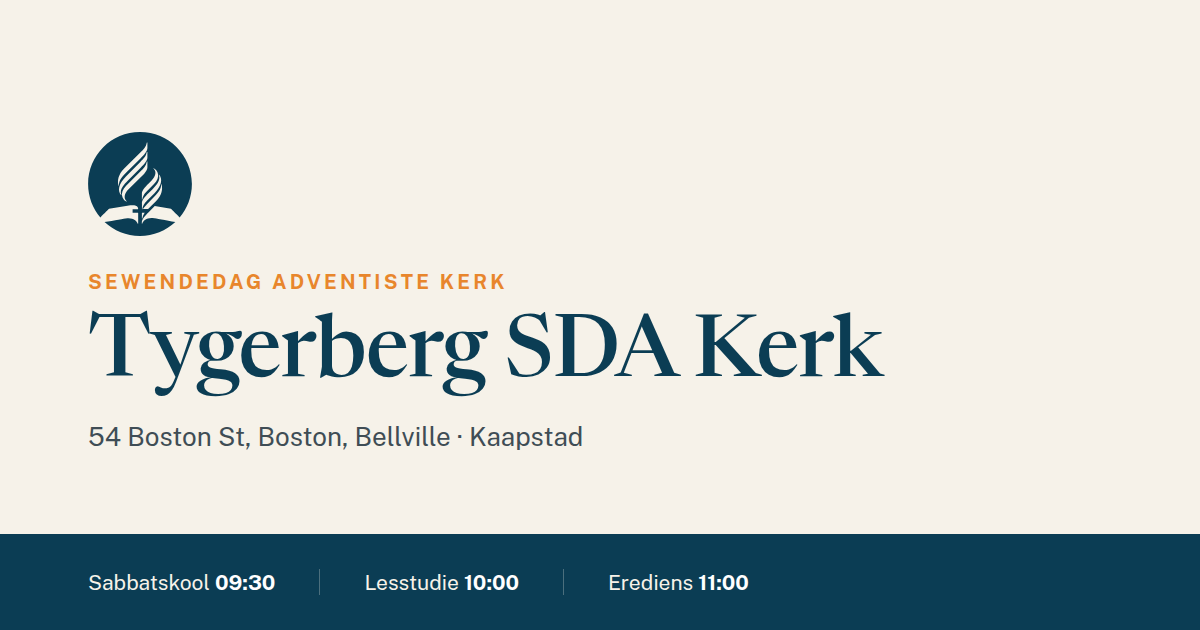
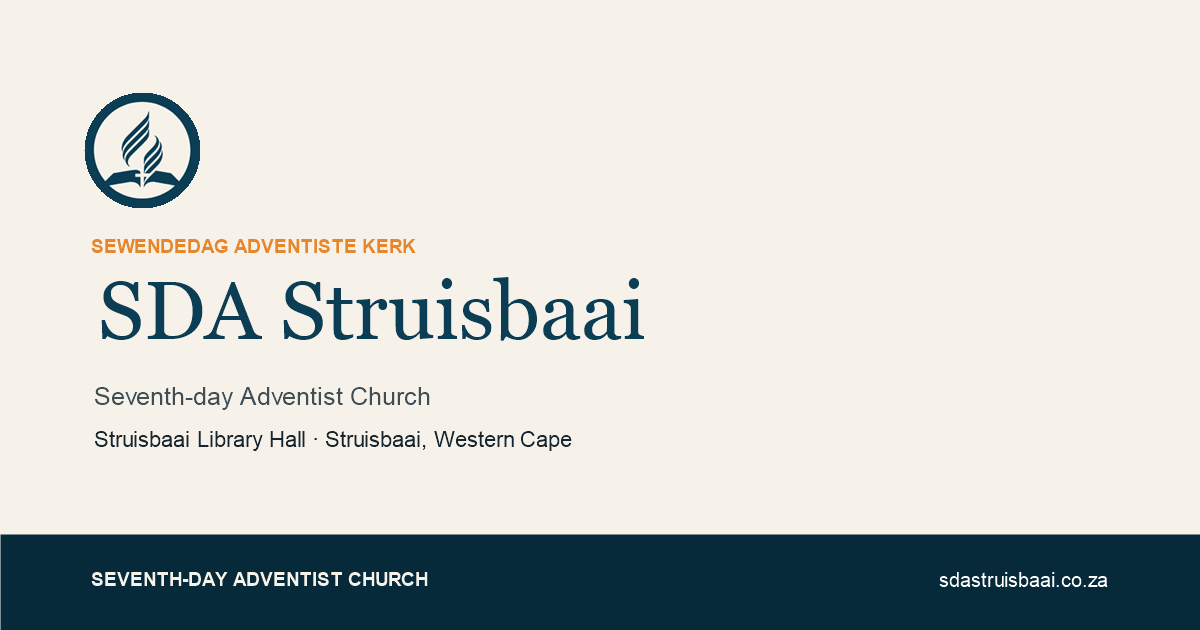
Apply Struisbaai branding and align involvement cards (#5)

Changed region(s): [[0.0, 0.8444, 1.0, 1.0], [0.0617, 0.1508, 0.74, 0.7238]]

diff --git a/src/components/react/GetInvolved.tsx b/src/components/react/GetInvolved.tsx
@@ -7,7 +7,7 @@ export function GetInvolved() {
   const t = homeCopy[lang];
 
   const cardClass = (tint: boolean) =>
-    `rounded-card-lg border p-6.5 flex flex-col justify-between ${
+    `flex h-full flex-col justify-between rounded-card-lg border p-6.5 ${
       tint ? 'border-orange/40 bg-orange/15' : 'border-white/15 bg-white/10'
     }`;
 
@@ -17,7 +17,7 @@ export function GetInvolved() {
         <h2 className="mb-10 text-center font-serif text-[34px] font-medium">
           {t.involvedHeading}
         </h2>
-        <div className="grid grid-cols-[repeat(auto-fit,minmax(min(240px,100%),1fr))] items-start gap-5">
+        <div className="grid auto-rows-fr grid-cols-[repeat(auto-fit,minmax(min(240px,100%),1fr))] items-stretch gap-5">
           <div className={cardClass(false)}>
             <div>
               <div className="mb-2.5 font-serif text-xl">{t.connectTitle}</div>
@@ -62,16 +62,6 @@ export function GetInvolved() {
               <div className="mb-2.5 font-serif text-xl">{t.giveTitle}</div>
               <p className="mb-4 text-sm leading-relaxed text-blue-pale">{t.giveDesc}</p>
             </div>
-            {/* Was an in-card accordion holding the banking details. Giving now
-                has its own page, because a second method (Zapper) plus a QR
-                code does not fit in a third of a card — and a giving link is
-                the kind of thing people want to send to someone else. */}
-            <a
-              href={withBase('/giving/')}
-              className="w-full inline-flex items-center justify-center gap-1.5 rounded-pill bg-orange px-4 py-2 text-[13px] font-bold text-white hover:bg-orange-hover transition-colors"
-            >
-              {t.giveCta} →
-            </a>
           </div>
         </div>
       </div>

diff --git a/src/data/site.ts b/src/data/site.ts
@@ -67,9 +67,6 @@ export type SocialLink = { id: 'youtube' | 'instagram' | 'facebook'; label: stri
 
 export const SOCIAL_LINKS: readonly SocialLink[] = [
   ...(FEATURE_FLAGS.youtubeSection ? [{ id: 'youtube' as const, label: 'YouTube', url: SITE.youtubeStreamsUrl }] : []),
-  { id: 'instagram', label: 'Instagram', url: 'https://www.instagram.com/sdatygerberg' },
-  // These inherited links are pending confirmation for Struisbaai.
-  { id: 'facebook', label: 'Facebook', url: 'https://www.facebook.com/SDATygerbergStream' },
 ];
 
 /**

diff --git a/src/components/react/SocialLinks.tsx b/src/components/react/SocialLinks.tsx
@@ -18,6 +18,8 @@ export function SocialLinks({
   newTab: string;
   variant: 'navy' | 'light';
 }) {
+  if (SOCIAL_LINKS.length === 0) return null;
+
   const labelClass =
     variant === 'navy'
       ? 'mb-2 text-xs font-bold uppercase tracking-[.08em] text-blue-muted'
